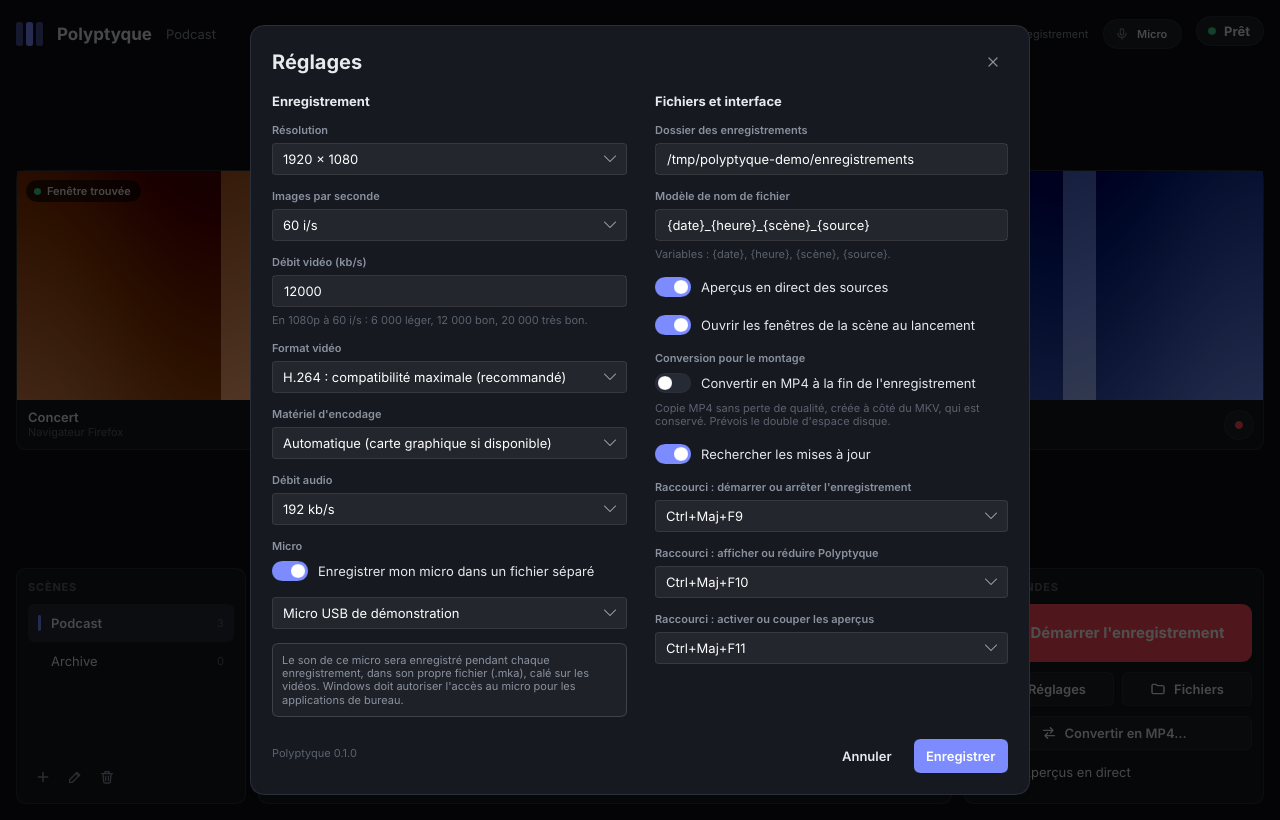
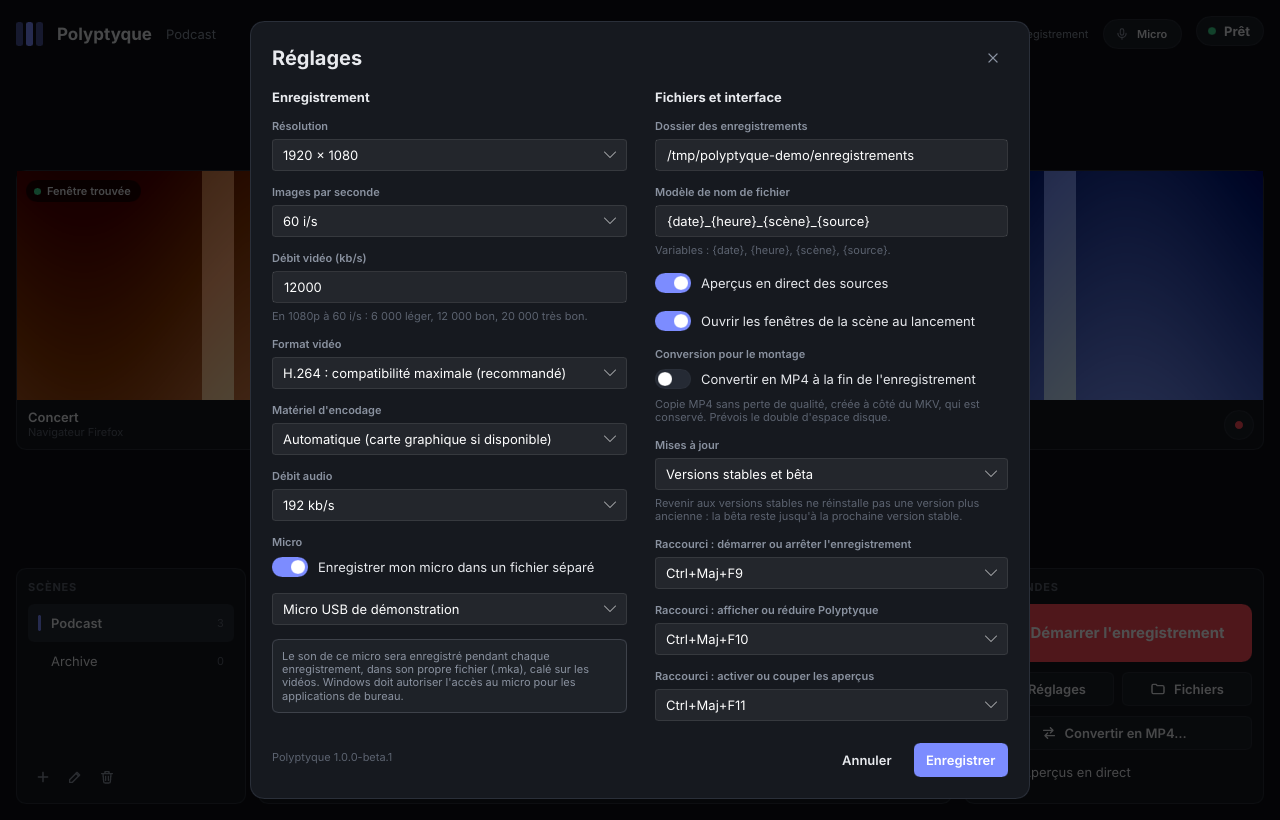
Canal de mises à jour (stables, ou stables et bêta) et publication des bêtas
Préparation de la première version publique, 1.0.0-beta.1.
- Réglages : « Mises à jour » remplace l'interrupteur, avec Versions
  stables / Versions stables et bêta / Ne pas rechercher. Tant que rien
  n'est choisi, une bêta reçoit les bêtas suivantes puis la version
  stable, une version stable ne reçoit que des stables. Changer de canal
  relance la recherche ; une version trouvée sur l'autre canal n'est plus
  proposée.
- Le téléchargement cherche sur le même canal que la recherche (Velopack
  filtre aussi les préversions au téléchargement).
- Fabrication : une version à tiret est publiée comme préversion GitHub,
  titre « Polyptyque 1.0 bêta 1 », notes tirées de
  packaging/notes/v<version>.md (obligatoires pour publier), installateur
  et version portable sous les noms Polyptyque-Setup.exe et
  Polyptyque-portable.zip.
- README, LISEZMOI, cahier des charges et capture des réglages à jour.

Claude-Session: https://claude.ai/code/session_01VtSF5FFkXV3fAYzBFAzxV6

diff --git a/crates/polyptyque-app/src/controller.rs b/crates/polyptyque-app/src/controller.rs
@@ -19,7 +19,7 @@ use std::time::{Duration, Instant};
 use anyhow::{anyhow, Context, Result};
 use polyptyque_core::browsers::{classify_executable, is_tor_browser, program_name};
 use polyptyque_core::config::{
-    BrowserFamily, BrowserRef, Codec, Config, HardwarePreference, Scene, Source, SourceKind,
+    BrowserFamily, BrowserRef, Codec, Config, HardwarePreference, Scene, Settings, Source, SourceKind, UpdateChannel,
 };
 use polyptyque_core::encoder::{bytes_per_hour, EncoderChoice};
 use polyptyque_core::hotkeys;
@@ -57,6 +57,10 @@ const TOAST_DURATION: Duration = Duration::from_secs(7);
 /// deux recherches (pour les sessions longues).
 const UPDATE_FIRST_CHECK: Duration = Duration::from_secs(5);
 const UPDATE_CHECK_INTERVAL: Duration = Duration::from_secs(6 * 3600);
+/// Choix « Mises à jour » des réglages : 0 versions stables, 1 stables et
+/// bêta, 2 ne pas rechercher.
+const UPDATES_OFF: i32 = 2;
+const VERSION: &str = env!("CARGO_PKG_VERSION");
 /// Raison affichée par Windows si l'on éteint pendant un enregistrement.
 #[cfg(windows)]
 const SHUTDOWN_REASON: &str = "Enregistrement en cours : arrête-le dans Polyptyque pour finaliser les fichiers.";
@@ -314,8 +318,8 @@ pub fn run(platform: Arc<dyn Platform>, paths: Paths, initial: Option<Config>) -
     let bridge = ui.global::<Bridge>();
     // Version portable : on le signale, avec l'emplacement de ses données.
     let version = match paths::portable_root() {
-        Some(_) => format!("{} · portable", env!("CARGO_PKG_VERSION")),
-        None => env!("CARGO_PKG_VERSION").to_string(),
+        Some(_) => format!("{VERSION} · portable"),
+        None => VERSION.to_string(),
     };
     bridge.set_version(version.into());
     bridge.set_cards(ModelRc::from(app.cards.clone()));
@@ -1485,15 +1489,14 @@ impl App {
     // ----- Mises à jour -----------------------------------------------------
 
     fn check_for_updates(&self) {
-        if !self.config.borrow().settings.check_updates
-            || self.update_state.get() != UpdateState::None
-            || self.update_checking.get()
-        {
+        let choice = update_choice(&self.config.borrow().settings);
+        if choice == UPDATES_OFF || self.update_state.get() != UpdateState::None || self.update_checking.get() {
             return;
         }
+        let beta = choice == 1;
         self.update_checking.set(true);
-        thread::spawn(|| {
-            let result = catch_unwind(update::check).unwrap_or_else(|_| Err(anyhow!("erreur interne")));
+        thread::spawn(move || {
+            let result = catch_unwind(|| update::check(beta)).unwrap_or_else(|_| Err(anyhow!("erreur interne")));
             post(move |app| app.on_update_checked(result));
         });
     }
@@ -2285,7 +2288,7 @@ impl App {
             s.filename_template.clone(),
             s.previews,
             s.convert_to_mp4,
-            s.check_updates,
+            update_choice(s),
             hotkey_index(&s.hotkeys.toggle_recording),
             hotkey_index(&s.hotkeys.show_window),
             hotkey_index(&s.hotkeys.toggle_previews),
@@ -2329,7 +2332,7 @@ impl App {
             b.set_template(values.9.into());
             b.set_settings_previews(values.10);
             b.set_settings_convert(values.11);
-            b.set_settings_check_updates(values.12);
+            b.set_settings_update_index(values.12);
             b.set_settings_open_windows(s_open_windows);
             b.set_settings_mic(mic_enabled);
             b.set_mic_choices(ModelRc::new(VecModel::from(mic_labels)));
@@ -2399,8 +2402,8 @@ impl App {
         }
         let previews_before;
         let previews_after;
-        let check_updates_before;
-        let check_updates_after;
+        let updates_before;
+        let updates_after;
         {
             let mut config = self.config.borrow_mut();
             let s = &mut config.settings;
@@ -2424,9 +2427,19 @@ impl App {
             s.previews = b.get_settings_previews();
             previews_after = s.previews;
             s.convert_to_mp4 = b.get_settings_convert();
-            check_updates_before = s.check_updates;
-            s.check_updates = b.get_settings_check_updates();
-            check_updates_after = s.check_updates;
+            updates_before = update_choice(s);
+            let update_index = b.get_settings_update_index();
+            s.check_updates = update_index != UPDATES_OFF;
+            if s.check_updates {
+                let chosen = if update_index == 1 { UpdateChannel::Beta } else { UpdateChannel::Stable };
+                // Tant que le choix reste celui de la version en cours, rien
+                // n'est figé : une bêta passera seule aux versions stables une
+                // fois la version stable installée.
+                if s.update_channel.is_some() || chosen != UpdateChannel::of_version(VERSION) {
+                    s.update_channel = Some(chosen);
+                }
+            }
+            updates_after = update_choice(s);
             s.open_windows_at_launch = b.get_settings_open_windows();
             s.microphone.enabled = b.get_settings_mic();
             if let Some((id, name)) = self.mic_choices.borrow().get(b.get_mic_index().max(0) as usize) {
@@ -2448,7 +2461,12 @@ impl App {
         }
         self.register_hotkeys();
         self.toast("Réglages enregistrés.", 1);
-        if check_updates_after && !check_updates_before {
+        if updates_after != updates_before && updates_after != UPDATES_OFF {
+            // Une version trouvée sur l'autre canal n'est plus proposée.
+            if self.update_state.get() == UpdateState::Available {
+                *self.update.borrow_mut() = None;
+                self.set_update_state(UpdateState::None);
+            }
             self.check_for_updates();
         }
     }
@@ -2826,6 +2844,17 @@ fn prepare(platform: &dyn Platform, config: &Config, scene: &Scene) -> Result<Pr
         }
     });
     Ok(Prepared { ffmpeg, encoder, missing, output_dir, output_note })
+}
+
+/// Choix « Mises à jour » affiché dans les réglages (voir `UPDATES_OFF`).
+fn update_choice(settings: &Settings) -> i32 {
+    if !settings.check_updates {
+        UPDATES_OFF
+    } else if settings.update_channel(VERSION) == UpdateChannel::Beta {
+        1
+    } else {
+        0
+    }
 }
 
 /// Même fichier, quelle que soit l'écriture du chemin (majuscules, `..`).

diff --git a/crates/polyptyque-core/src/config.rs b/crates/polyptyque-core/src/config.rs
@@ -336,6 +336,10 @@ pub struct Settings {
     pub convert_to_mp4: bool,
     /// Recherche d'une nouvelle version au démarrage (sur GitHub).
     pub check_updates: bool,
+    /// Versions proposées. Absent tant que l'utilisateur n'a rien choisi :
+    /// c'est alors celui de la version en cours (voir `UpdateChannel`).
+    #[serde(skip_serializing_if = "Option::is_none")]
+    pub update_channel: Option<UpdateChannel>,
     /// Au lancement de Polyptyque, ouvrir les fenêtres manquantes de la
     /// scène active (navigateurs, applications dont la relance est activée).
     pub open_windows_at_launch: bool,
@@ -353,11 +357,44 @@ impl Default for Settings {
             previews: true,
             convert_to_mp4: false,
             check_updates: true,
+            update_channel: None,
             open_windows_at_launch: true,
             video: VideoSettings::default(),
             audio: AudioSettings::default(),
             microphone: MicrophoneSettings::default(),
             hotkeys: HotkeySettings::default(),
+        }
+    }
+}
+
+impl Settings {
+    /// Canal de mises à jour en vigueur pour la version `version` de
+    /// Polyptyque.
+    pub fn update_channel(&self, version: &str) -> UpdateChannel {
+        self.update_channel.unwrap_or_else(|| UpdateChannel::of_version(version))
+    }
+}
+
+/// Versions proposées par la recherche de mises à jour.
+#[derive(Debug, Clone, Copy, Serialize, Deserialize, PartialEq, Eq)]
+#[serde(rename_all = "snake_case")]
+pub enum UpdateChannel {
+    /// Versions stables seulement.
+    Stable,
+    /// Versions stables et bêta (préversions GitHub).
+    Beta,
+}
+
+impl UpdateChannel {
+    /// Canal par défaut : une bêta reçoit les bêtas suivantes, puis la
+    /// version stable ; une version stable ne reçoit que des versions
+    /// stables. Une bêta se reconnaît au tiret de son numéro (« 1.0.0-beta.1 »).
+    pub fn of_version(version: &str) -> Self {
+        let without_build = version.split('+').next().unwrap_or(version);
+        if without_build.contains('-') {
+            Self::Beta
+        } else {
+            Self::Stable
         }
     }
 }
@@ -698,6 +735,23 @@ mod tests {
         let config: Config = toml::from_str(text).unwrap();
         assert!(config.settings.previews);
         assert_eq!(config.settings.hotkeys.toggle_recording, "Ctrl+Maj+F9");
+        assert_eq!(config.settings.update_channel, None);
+    }
+
+    #[test]
+    fn update_channel_follows_the_version_until_chosen() {
+        assert_eq!(UpdateChannel::of_version("1.0.0-beta.1"), UpdateChannel::Beta);
+        assert_eq!(UpdateChannel::of_version("1.0.0"), UpdateChannel::Stable);
+        assert_eq!(UpdateChannel::of_version("1.0.0+abc-def"), UpdateChannel::Stable);
+        let mut settings = Settings::default();
+        assert_eq!(settings.update_channel("1.0.0-beta.2"), UpdateChannel::Beta);
+        assert_eq!(settings.update_channel("1.0.0"), UpdateChannel::Stable);
+        // Rien n'est écrit tant que l'utilisateur n'a pas choisi.
+        assert!(!toml::to_string(&settings).unwrap().contains("update_channel"));
+        settings.update_channel = Some(UpdateChannel::Stable);
+        assert_eq!(settings.update_channel("1.0.0-beta.2"), UpdateChannel::Stable);
+        let back: Settings = toml::from_str(&toml::to_string(&settings).unwrap()).unwrap();
+        assert_eq!(back.update_channel, Some(UpdateChannel::Stable));
     }
 
     #[test]

diff --git a/crates/polyptyque-app/src/update.rs b/crates/polyptyque-app/src/update.rs
@@ -17,6 +17,10 @@ pub struct Available {
     pub version: String,
     /// Taille du téléchargement, en octets.
     pub size: u64,
+    /// Trouvée en cherchant aussi les bêtas : le téléchargement doit les
+    /// chercher de même.
+    #[cfg_attr(not(windows), allow(dead_code))]
+    beta: bool,
     #[cfg(windows)]
     info: velopack::UpdateInfo,
 }
@@ -32,16 +36,19 @@ mod imp {
 
     use super::{Available, REPOSITORY};
 
-    fn manager() -> Result<UpdateManager> {
-        UpdateManager::new(GithubSource::new(REPOSITORY, None, false), None, None)
+    /// Les bêtas sont publiées comme préversions GitHub, que la source
+    /// ignore sauf si `beta`.
+    fn manager(beta: bool) -> Result<UpdateManager> {
+        UpdateManager::new(GithubSource::new(REPOSITORY, None, beta), None, None)
             .map_err(|e| anyhow!("Polyptyque n'a pas été installé par son installateur ({e})"))
     }
 
-    pub fn check() -> Result<Option<Available>> {
-        match manager()?.check_for_updates().map_err(|e| anyhow!("{e}"))? {
+    pub fn check(beta: bool) -> Result<Option<Available>> {
+        match manager(beta)?.check_for_updates().map_err(|e| anyhow!("{e}"))? {
             UpdateCheck::UpdateAvailable(info) => Ok(Some(Available {
                 version: info.TargetFullRelease.Version.clone(),
                 size: info.TargetFullRelease.Size,
+                beta,
                 info: *info,
             })),
             UpdateCheck::NoUpdateAvailable | UpdateCheck::RemoteIsEmpty => Ok(None),
@@ -49,7 +56,7 @@ mod imp {
     }
 
     pub fn download(update: &Available, progress: &dyn Fn(f32)) -> Result<()> {
-        let manager = manager()?;
+        let manager = manager(update.beta)?;
         let info = update.info.clone();
         let (sender, receiver) = mpsc::channel::<i16>();
         let worker = thread::spawn(move || manager.download_updates(&info, Some(sender)));
@@ -62,7 +69,7 @@ mod imp {
     /// Quitte Polyptyque, installe la nouvelle version et la relance. Ne
     /// revient qu'en cas d'échec.
     pub fn apply(update: &Available) -> Result<()> {
-        manager()?.apply_updates_and_restart(&update.info).map_err(|e| anyhow!("{e}"))
+        manager(update.beta)?.apply_updates_and_restart(&update.info).map_err(|e| anyhow!("{e}"))
     }
 }
 
@@ -77,9 +84,12 @@ mod imp {
 
     use super::Available;
 
-    pub fn check() -> Result<Option<Available>> {
-        Ok(std::env::var_os("POLYPTYQUE_DEMO_MISE_A_JOUR")
-            .map(|_| Available { version: "0.2.0".into(), size: 74_000_000 }))
+    pub fn check(beta: bool) -> Result<Option<Available>> {
+        Ok(std::env::var_os("POLYPTYQUE_DEMO_MISE_A_JOUR").map(|_| Available {
+            version: if beta { "1.1.0-beta.1" } else { "1.1.0" }.into(),
+            size: 74_000_000,
+            beta,
+        }))
     }
 
     pub fn download(_: &Available, progress: &dyn Fn(f32)) -> Result<()> {
@@ -95,10 +105,10 @@ mod imp {
     }
 }
 
-/// Recherche une nouvelle version (accès réseau : à appeler hors du fil de
-/// l'interface).
-pub fn check() -> Result<Option<Available>> {
-    imp::check()
+/// Recherche une nouvelle version, bêtas comprises si `beta` (accès
+/// réseau : à appeler hors du fil de l'interface).
+pub fn check(beta: bool) -> Result<Option<Available>> {
+    imp::check(beta)
 }
 
 /// Télécharge la nouvelle version ; `progress` reçoit l'avancement (0 à 1).

diff --git a/docs/cahier-des-charges.md b/docs/cahier-des-charges.md
@@ -373,8 +373,9 @@ Solution retenue : **[[Velopack]]** (outil d'installation et de mise à jour éc
 | Dossier d'installation | `%LOCALAPPDATA%\PolyptyqueApp`, distinct des données (`%APPDATA%\Polyptyque`, `%LOCALAPPDATA%\Polyptyque`) : une désinstallation efface tout le dossier d'installation mais conserve scènes, réglages, profils de navigateur (connexions) et journaux |
 | Système minimal | Windows 10 version 2004 ; refus avec explication en dessous |
 | Version portable | `Polyptyque-portable.zip`, sans installation et autonome : scènes, réglages et leurs sauvegardes, profils de navigateur (connexions) et journaux dans le dossier `données` du dossier décompressé, rien d'écrit ailleurs sur le PC, pour tout emporter d'un ordinateur à l'autre. Les profils et les navigateurs sont retrouvés automatiquement après un déplacement. Les enregistrements restent dans le dossier choisi (repli sur `Vidéos\Polyptyque` s'il n'existe pas sur le nouvel ordinateur). Reconnue au marqueur `.portable` que Velopack place dans le zip ; les réglages affichent « portable » à côté du numéro de version |
-| Mises à jour | Recherche au démarrage puis toutes les 6 h (désactivable) ; proposées d'un clic, téléchargées avec avancement, puis redémarrage ; jamais pendant un enregistrement ou une conversion (sinon installées au prochain démarrage). Source : publications GitHub du dépôt (fonctionne une fois le dépôt public) |
-| Publication | Étiquette `vX.Y.Z` (identique à la version de `Cargo.toml`) : la fabrication publie la version GitHub, avec mise à jour partielle depuis la précédente |
+| Mises à jour | Recherche au démarrage puis toutes les 6 h (désactivable) ; proposées d'un clic, téléchargées avec avancement, puis redémarrage ; jamais pendant un enregistrement ou une conversion (sinon installées au prochain démarrage). Source : publications GitHub du dépôt public |
+| Publication | Étiquette `vX.Y.Z` (identique à la version de `Cargo.toml`) : la fabrication publie la version GitHub, avec mise à jour partielle depuis la précédente, notes de version obligatoires (`packaging/notes/vX.Y.Z.md`). Une bêta (`X.Y.Z-beta.N`) est publiée comme préversion GitHub |
+| Canaux | Réglage « Mises à jour » : versions stables, versions stables et bêta, ou ne pas rechercher. Tant que l'utilisateur n'a rien choisi, une bêta suit les bêtas puis la version stable, une version stable ne suit que les stables |
 | Surcoût | Environ 7,5 Mo pour l'installateur, 5 Mo pour l'outil de mise à jour |
 | macOS / Linux | Paquet `.pkg` sous macOS (fabriqué sur un Mac), AppImage auto-mise à jour sous Linux |
 
@@ -631,6 +632,7 @@ Seule une implémentation de `Platform` est à écrire pour chaque système (`po
 | 2026-10-22 | Mise en veille pendant un enregistrement : arrêt propre et reprise proposée au réveil, plutôt qu'une pause (choix provisoire) ; journaux conservés 30 jours |
 | 2026-10-22 | Fenêtres de la scène : ouvertes au lancement de Polyptyque (réglage, activé par défaut), ou d'un clic avec « Ouvrir les fenêtres », ou une par une ; rien n'est ouvert au changement de scène. Un programme en train de s'ouvrir n'est jamais relancé (20 s) |
 | 2026-10-22 | Version portable : données dans `données` à la racine du dossier décompressé, hors du dossier `current` que les mises à jour remplacent |
+| 2026-10-22 | Première publication : 1.0.0-beta.1, en préversion GitHub, pour éprouver la mise à jour automatique ; canal de mises à jour au choix (stables, ou stables et bêta). La 1.0 stable suivra, puis le portage Linux et macOS |
 
 ---
 

diff --git a/README.md b/README.md
@@ -100,7 +100,12 @@ Polyptyque doit tourner pendant des heures à côté d'un jeu, d'un appel vidéo
 
 **Mises à jour**
 
-Polyptyque vérifie au démarrage, puis toutes les six heures, si une nouvelle version existe et la propose d'un clic, jamais pendant un enregistrement. Cette vérification peut être désactivée dans les réglages.
+Polyptyque vérifie au démarrage, puis toutes les six heures, si une nouvelle version existe et la propose d'un clic, jamais pendant un enregistrement. Dans les réglages, « Mises à jour » permet de choisir :
+- **Versions stables** ;
+- **Versions stables et bêta** : les nouveautés plus tôt, avec plus de risques ;
+- **Ne pas rechercher**.
+
+Une copie bêta reçoit par défaut les bêtas suivantes, puis la version stable. Revenir aux versions stables ne réinstalle pas une version plus ancienne : la bêta reste jusqu'à la prochaine version stable.
 
 **Désinstaller**
 
@@ -191,13 +196,14 @@ Le mode démonstration permet de développer l'interface sans Windows. Des varia
 - Chaque envoi lance les vérifications sur Linux et Windows, et fabrique l'installateur. On le trouve dans l'onglet **Actions**, artefact `Polyptyque-windows`.
 
 **Publier une version**
-1. Mettre à jour `version` dans le `Cargo.toml` de la racine, par exemple `0.2.0`.
-2. Sur `main`, créer et envoyer l'étiquette correspondante :
+1. Mettre à jour `version` dans le `Cargo.toml` de la racine : `1.0.0` pour une version stable, `1.0.0-beta.2` pour une bêta.
+2. Écrire ses notes dans `packaging/notes/v<version>.md` (par exemple `packaging/notes/v1.0.0.md`) : elles deviennent le texte de la page de version, qui n'est pas publiée sans elles.
+3. Sur `main`, créer et envoyer l'étiquette correspondante :
    ```sh
-   git tag v0.2.0
-   git push origin v0.2.0
+   git tag v1.0.0
+   git push origin v1.0.0
    ```
-3. La fabrication publie la version sur GitHub avec son installateur. Les copies installées la proposent alors d'elles-mêmes.
+4. La fabrication publie la version sur GitHub, avec `Polyptyque-Setup.exe` et `Polyptyque-portable.zip`. Une bêta (numéro avec un tiret) est publiée comme préversion : seules les copies réglées sur « Versions stables et bêta » la proposent. Les autres versions sont proposées à toutes les copies.
 
 ## Licence
 

diff --git a/packaging/notes/v1.0.0-beta.1.md b/packaging/notes/v1.0.0-beta.1.md
@@ -1,0 +1,29 @@
+> **Version bêta.** Première version publique de Polyptyque, ce n'est pas encore la 1.0 définitive. Elle a tenu un enregistrement de 14 h 15 sans coupure, mais elle sert aussi à éprouver la mise à jour automatique et la version portable. Pour un enregistrement important, garder un œil sur les fichiers.
+
+## Télécharger
+
+- **Polyptyque-Setup.exe** : installation sans question ni droits administrateur.
+- **Polyptyque-portable.zip** : sans installation ; décompresser où l'on veut, puis lancer `Polyptyque.exe`.
+
+Windows 10 (2004 ou plus récent) ou Windows 11, 64 bits. Polyptyque n'est pas encore signé : si Windows affiche « Windows a protégé votre ordinateur », cliquer sur « Informations complémentaires », puis « Exécuter quand même ».
+
+## Mises à jour
+
+Cette bêta reçoit les bêtas suivantes, puis la 1.0 stable, proposées d'un clic dans Polyptyque, jamais pendant un enregistrement. Le choix se fait dans Réglages > Mises à jour.
+
+## Ce que fait Polyptyque
+
+- Chaque fenêtre dans son propre fichier, avec uniquement son propre son.
+- Fichiers calés sur une horloge commune, prêts pour le montage multi-angle ; conversion en MP4 sans perte.
+- Pensé pour les longues sessions et résistant aux incidents : reprise après plantage ou coupure de courant, réparation des fichiers coupés net, encodeur relancé seul, fenêtres retrouvées.
+
+## Limites connues
+
+- Le son est isolé par programme, pas par onglet.
+- Une fenêtre réduite dans la barre des tâches a une image figée (bouton « Rétablir la fenêtre » sur sa carte).
+- Contenus protégés (Netflix…) souvent en noir ; jeux en plein écran exclusif en noir.
+- Rare : si Polyptyque ne démarre plus après une mise à jour (par exemple un antivirus qui bloque le remplacement des fichiers), le réinstaller avec Polyptyque-Setup.exe. Scènes, réglages et connexions sont conservés.
+
+## Signaler un problème
+
+Onglet **Issues** du dépôt, en joignant si possible le journal : `%LOCALAPPDATA%\Polyptyque\journaux`, ou `données\journaux` pour la version portable.
